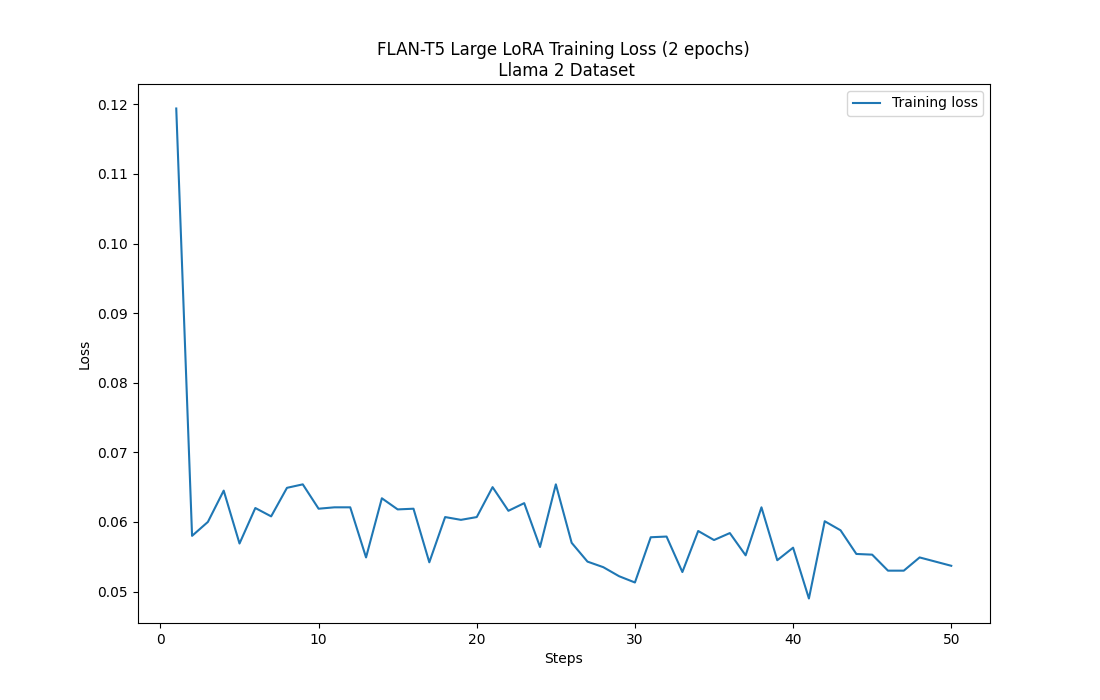
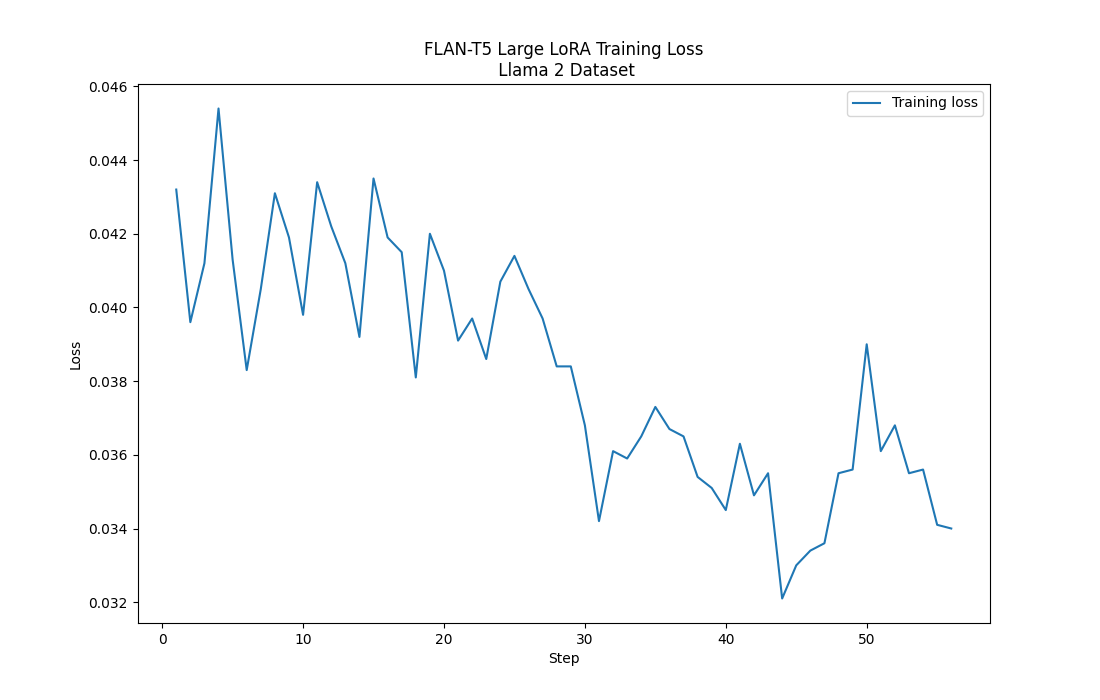
Modify existing functions and fine-tune model on finance-alpaca once again due to several errors made in the first attempt

diff --git a/flan_t5/train_flan_t5.py b/flan_t5/train_flan_t5.py
@@ -14,7 +14,7 @@ from transformers import (
 )
 
 MODEL_NAME = "google/flan-t5-large"
-DATASET = "ChrisHayduk/Llama-2-SQL-Dataset"
+DATASET = "gbharti/finance-alpaca"
 LORA_PATH = f"./models/lora_{MODEL_NAME.split('/')[-1]}_{DATASET.split('/')[-1]}"
 TRAIN_DIR = "./models/checkpoints_local"
 HEADS = [
@@ -34,6 +34,7 @@ HEADS = [
     "The following SQL code demonstrates table creation:",
 ]
 PERCENTILE = 99.9
+ANS_PERCENTILE = 97
 
 
 def print_trainable_parameters(model: torch.nn.Module) -> None:
@@ -126,7 +127,7 @@ def prepare_qa_dataset(name: str, tokenizer: Callable) -> DatasetDict:
     dataset = dataset.map(lambda x: process(x), num_proc=12)
     max_prompt_len = int(np.percentile(dataset["len"], PERCENTILE))
     print(f"Max prompt length: {max_prompt_len}")
-    max_ans_len = int(np.percentile(dataset["ans_len"], 95))
+    max_ans_len = int(np.percentile(dataset["ans_len"], ANS_PERCENTILE))
     print(f"Max answer length: {max_ans_len}")
 
     dataset = dataset.filter(
@@ -144,6 +145,8 @@ def prepare_qa_dataset(name: str, tokenizer: Callable) -> DatasetDict:
     dataset = dataset.remove_columns(
         ["input", "output", "instruction", "text", "len", "ans_len", "prompt"]
     )
+    dataset.set_format(type="torch", columns=["input_ids", "labels"])
+    dataset = dataset.train_test_split(test_size=0.1, shuffle=True, seed=2137)
 
     return dataset
 
@@ -226,7 +229,6 @@ def preprocess_llama2_text2sql_dataset(record: Dict[str, str]) -> Dict[str, str]
 
 if __name__ == "__main__":
     import os
-    import pickle
     import time
 
     print("Loading model and tokenizer...")
@@ -248,7 +250,7 @@ if __name__ == "__main__":
         lora_config = LoraConfig(
             r=16,
             task_type="SEQ_2_SEQ_LM",
-            lora_dropout=0.1,
+            lora_dropout=0.05,
             lora_alpha=32,
             target_modules=["q", "v", "o"],
             bias="all",
@@ -276,9 +278,9 @@ if __name__ == "__main__":
     out_dir = TRAIN_DIR + f"/lora-{MODEL_NAME.split('/')[-1]}-{t}"
 
     training_args = Seq2SeqTrainingArguments(
-        learning_rate=3e-4,
+        learning_rate=3e-3,
         lr_scheduler_type="cosine",
-        num_train_epochs=2,
+        num_train_epochs=1,
         auto_find_batch_size=True,
         gradient_accumulation_steps=8,
         output_dir=out_dir,
@@ -309,13 +311,6 @@ if __name__ == "__main__":
 
     print("Training...")
     trainer.train()
-
-    logs_dir = out_dir + "/logs"
-    if not os.path.isdir(logs_dir):
-        os.makedirs(logs_dir, exist_ok=True)
-
-    with open(logs_dir + "/log_metrics.pkl", "wb") as f:
-        pickle.dump(trainer.state.log_history, f)
 
     print("Saving model...")
     trainer.save_model(LORA_PATH)

diff --git a/flan_t5/evaluate_model.py b/flan_t5/evaluate_model.py
@@ -81,6 +81,10 @@ if __name__ == "__main__":
 
     generated, human = evaluate_test(model, tokenizer, config, dataset["test"], batch_size=64)
     lora_result = rouge.compute(predictions=generated, references=human, use_stemmer=True)
+    print(f"Fine-tuned model: {lora_result}")
+
+    del model
+    torch.cuda.empty_cache()
 
     model = T5ForConditionalGeneration.from_pretrained(
         MODEL_NAME, torch_dtype=torch.bfloat16, device_map="cuda:0"
@@ -94,4 +98,3 @@ if __name__ == "__main__":
     )
 
     print(f"Baseline model: {baseline_result}")
-    print(f"Fine-tuned model: {lora_result}")

diff --git a/flan_t5/FINE_TUNING.md b/flan_t5/FINE_TUNING.md
@@ -47,14 +47,18 @@ Dataset used for fine-tunning to generate SQL queries from text was [Text2SQL](h
 
 Model weights achieved in the previous fine-tuning on the dataset mentioned above were used to further fine-tune and imporve model's ability to generate SQL queries from text. Dataset used for this task was [Llama-2 SQL](https://huggingface.co/datasets/ChrisHayduk/Llama-2-SQL-Dataset).
 
-##### Training loss curve (Llama-2 SQL Dataset) - 2 epochs
+##### Training loss curve (Llama-2 SQL Dataset)
 
 ![Training loss curve](./plots/llama2sql_2-epochs.png)
 
+##### Validation loss curve (Llama-2 SQL Dataset)
+
+![Validation loss curve](./plots/llama2sql_2-epochs_eval.png)
+
 || Rouge-1 | Rouge-2 | Rouge-L | Rouge-Lsum |
 |---|---------|---------|---------|---------|
-| LoRA Model | 0.9891 | 0.9774 | 0.9868 | 0.9867 |
-| Base Model | 0.2535 | 0.1065 | 0.2188 | 0.2188 |
+| LoRA Model | 0.9931 | 0.9832 | 0.9909 | 0.9909 |
+| Base Model | 0.1912 | 0.0771 | 0.1775 | 0.1777 |
 
 ## Future work
 
